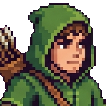
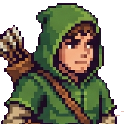
Retratos reenquadrados + tabs sem container + Loja de Gambits em blocos azuis
- Reextrai rostos com folga no topo (pluma/chapeu inteiros, cabeca centralizada)
- Tabs de heroi viram avatares redondos SEM caixa (anel colorido no selecionado)
- Loja de Gambits restilizada: blocos azuis suaves (icone + condicao + custo + Comprar)

Claude-Session: https://claude.ai/code/session_01EbSkREzXFkmQR9kLV1N6oq

diff --git a/vibe-gambit/index.html b/vibe-gambit/index.html
@@ -95,13 +95,16 @@
   .npc-box{display:flex;align-items:center;gap:10px;background:#fff8e8;border:1px solid var(--line);border-radius:10px;padding:6px 10px}
   .npc-box .npc{width:64px;height:auto;aspect-ratio:184/260;image-rendering:pixelated;flex:none}
   .npc-say{font-size:13px;font-style:italic;color:var(--ink2);font-weight:700}
-  .shop-list{display:flex;flex-direction:column;gap:6px;max-height:206px;overflow-y:auto}
-  .shop-item{display:flex;align-items:center;gap:6px;background:#fff8e8;border:1px solid var(--line);
-    border-radius:9px;padding:6px 8px;min-width:0}
-  .shop-item.owned{opacity:.72}
-  .si-name{flex:1;font-size:13.5px;font-weight:800;color:var(--ink);min-width:0}
-  .si-cost{font-size:13px;white-space:nowrap} .si-owned{font-size:12px;font-weight:800;color:var(--heal)}
-  .shop-buy{padding:5px 10px;font-size:12.5px;flex:none}
+  .shop-list{display:flex;flex-direction:column;gap:7px;max-height:206px;overflow-y:auto;padding:1px}
+  .shop-item{display:flex;align-items:center;gap:8px;background:#dbe8f4;border:1px solid #c2d8ea;
+    border-radius:10px;padding:8px 10px;min-width:0}
+  .shop-item.owned{background:#e4efe0;border-color:#cadfc3;opacity:.9}
+  .si-ic{flex:none;font-size:16px}
+  .si-name{flex:1;font-size:13px;font-weight:800;color:#2c5f8f;min-width:0}
+  .shop-item.owned .si-name{color:#3a7a44}
+  .si-cost{font-size:12.5px;white-space:nowrap;font-weight:800}
+  .si-owned{font-size:16px;font-weight:900;color:#3a9b4f;margin-left:auto}
+  .shop-buy{padding:6px 11px;font-size:12px;flex:none;background:linear-gradient(180deg,#5aa0e0,#3d7fc4);border-color:#2f6aa8;color:#fff;text-shadow:0 1px 0 #2f6aa8}
 
   /* rodapé de AÇÕES da base (fora do hub escalado): engrenagem + botão dourado */
   .base-actions{display:flex;align-items:center;gap:9px;max-width:460px;margin:2px auto 0}
@@ -167,11 +170,14 @@
   .gh-box{max-width:560px!important}
   #gh-mount{text-align:left}
   .gh-lede{margin-top:-2px;text-align:center}
-  .gh-tabs{display:flex;gap:6px;justify-content:center;margin:12px 0 8px;flex-wrap:wrap}
-  .gh-tab{display:flex;flex-direction:column;align-items:center;gap:3px;padding:5px 8px;border-radius:11px;background:var(--panel2);border:1px solid var(--line);box-shadow:none}
-  .gh-tab img{width:38px;height:38px;border-radius:8px;object-fit:cover;object-position:50% 16%;image-rendering:pixelated;border:2px solid transparent}
-  .gh-tab.on{background:#fff;border-color:var(--acc)} .gh-tab.on img{border-color:var(--acc)}
-  .gh-tab span{font-size:10px;font-weight:800;color:var(--ink2)}
+  .gh-tabs{display:flex;gap:10px;justify-content:center;margin:12px 0 10px;flex-wrap:wrap}
+  .gh-tab{display:flex;flex-direction:column;align-items:center;gap:4px;padding:2px;background:none;border:none;box-shadow:none}
+  .gh-tab img{width:52px;height:52px;border-radius:50%;object-fit:cover;object-position:50% 22%;image-rendering:pixelated;
+    border:2px solid transparent;background:radial-gradient(circle at 50% 35%,#fff,#ecdcb6)}
+  .gh-tab.on img{border-color:var(--acc);box-shadow:0 0 0 2px #fff,0 3px 7px rgba(0,0,0,.25)}
+  .gh-tab:not(.on) img{opacity:.72;filter:saturate(.9)}
+  .gh-tab span{font-size:10.5px;font-weight:800;color:var(--dim)}
+  .gh-tab.on span{color:var(--ink)}
 
   /* cabeçalho do herói: slim, sem "caixa azul" */
   .gg-hero{display:flex;align-items:center;gap:8px;padding:4px 2px 8px;border-bottom:2px solid var(--line);margin-bottom:6px}

diff --git a/vibe-gambit/src/game.js b/vibe-gambit/src/game.js
@@ -418,8 +418,9 @@ function renderHubShop(mount){
       <div class="shop-list">${shopIds.map(cid=>{
         const owned = S.unlockedConditions.includes(cid); const cost = ACADEMY.conditionShop[cid];
         return `<div class="shop-item ${owned?'owned':''}">
-          <div class="si-name">${CONDITIONS[cid].label}</div>
-          ${ owned ? `<span class="si-owned">✓ Adquirido</span>`
+          <span class="si-ic">🎯</span>
+          <span class="si-name">${CONDITIONS[cid].label}</span>
+          ${ owned ? `<span class="si-owned">✓</span>`
                    : `<span class="si-cost">${costHTML(cost)}</span>
                       <button class="small shop-buy" data-id="${cid}" ${canAfford(cost)?'':'disabled'}>Comprar</button>` }
         </div>`;
